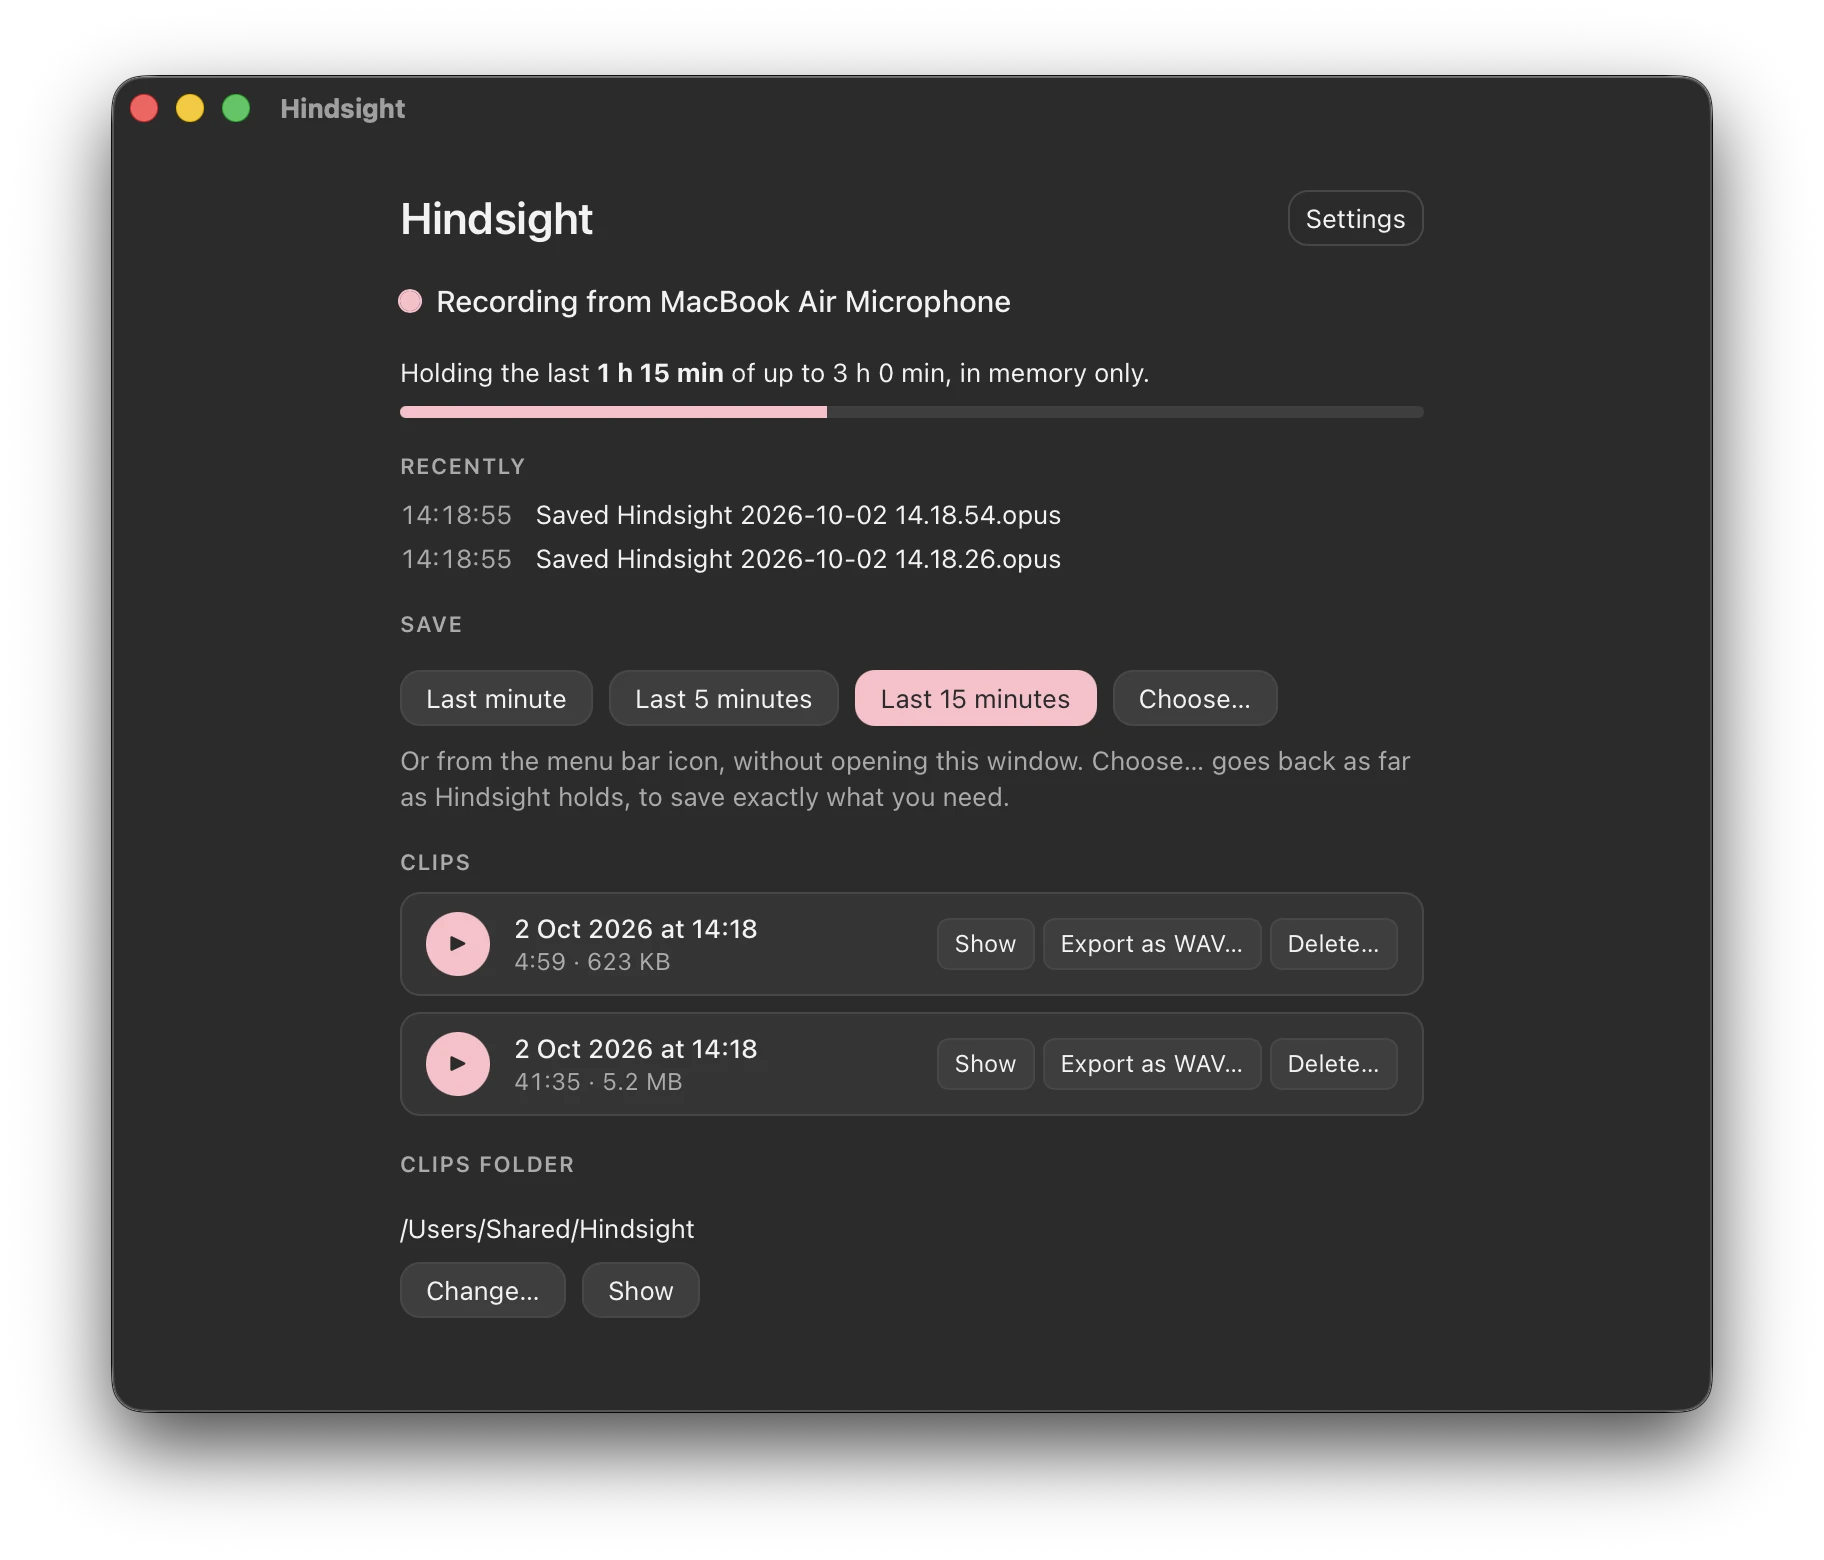
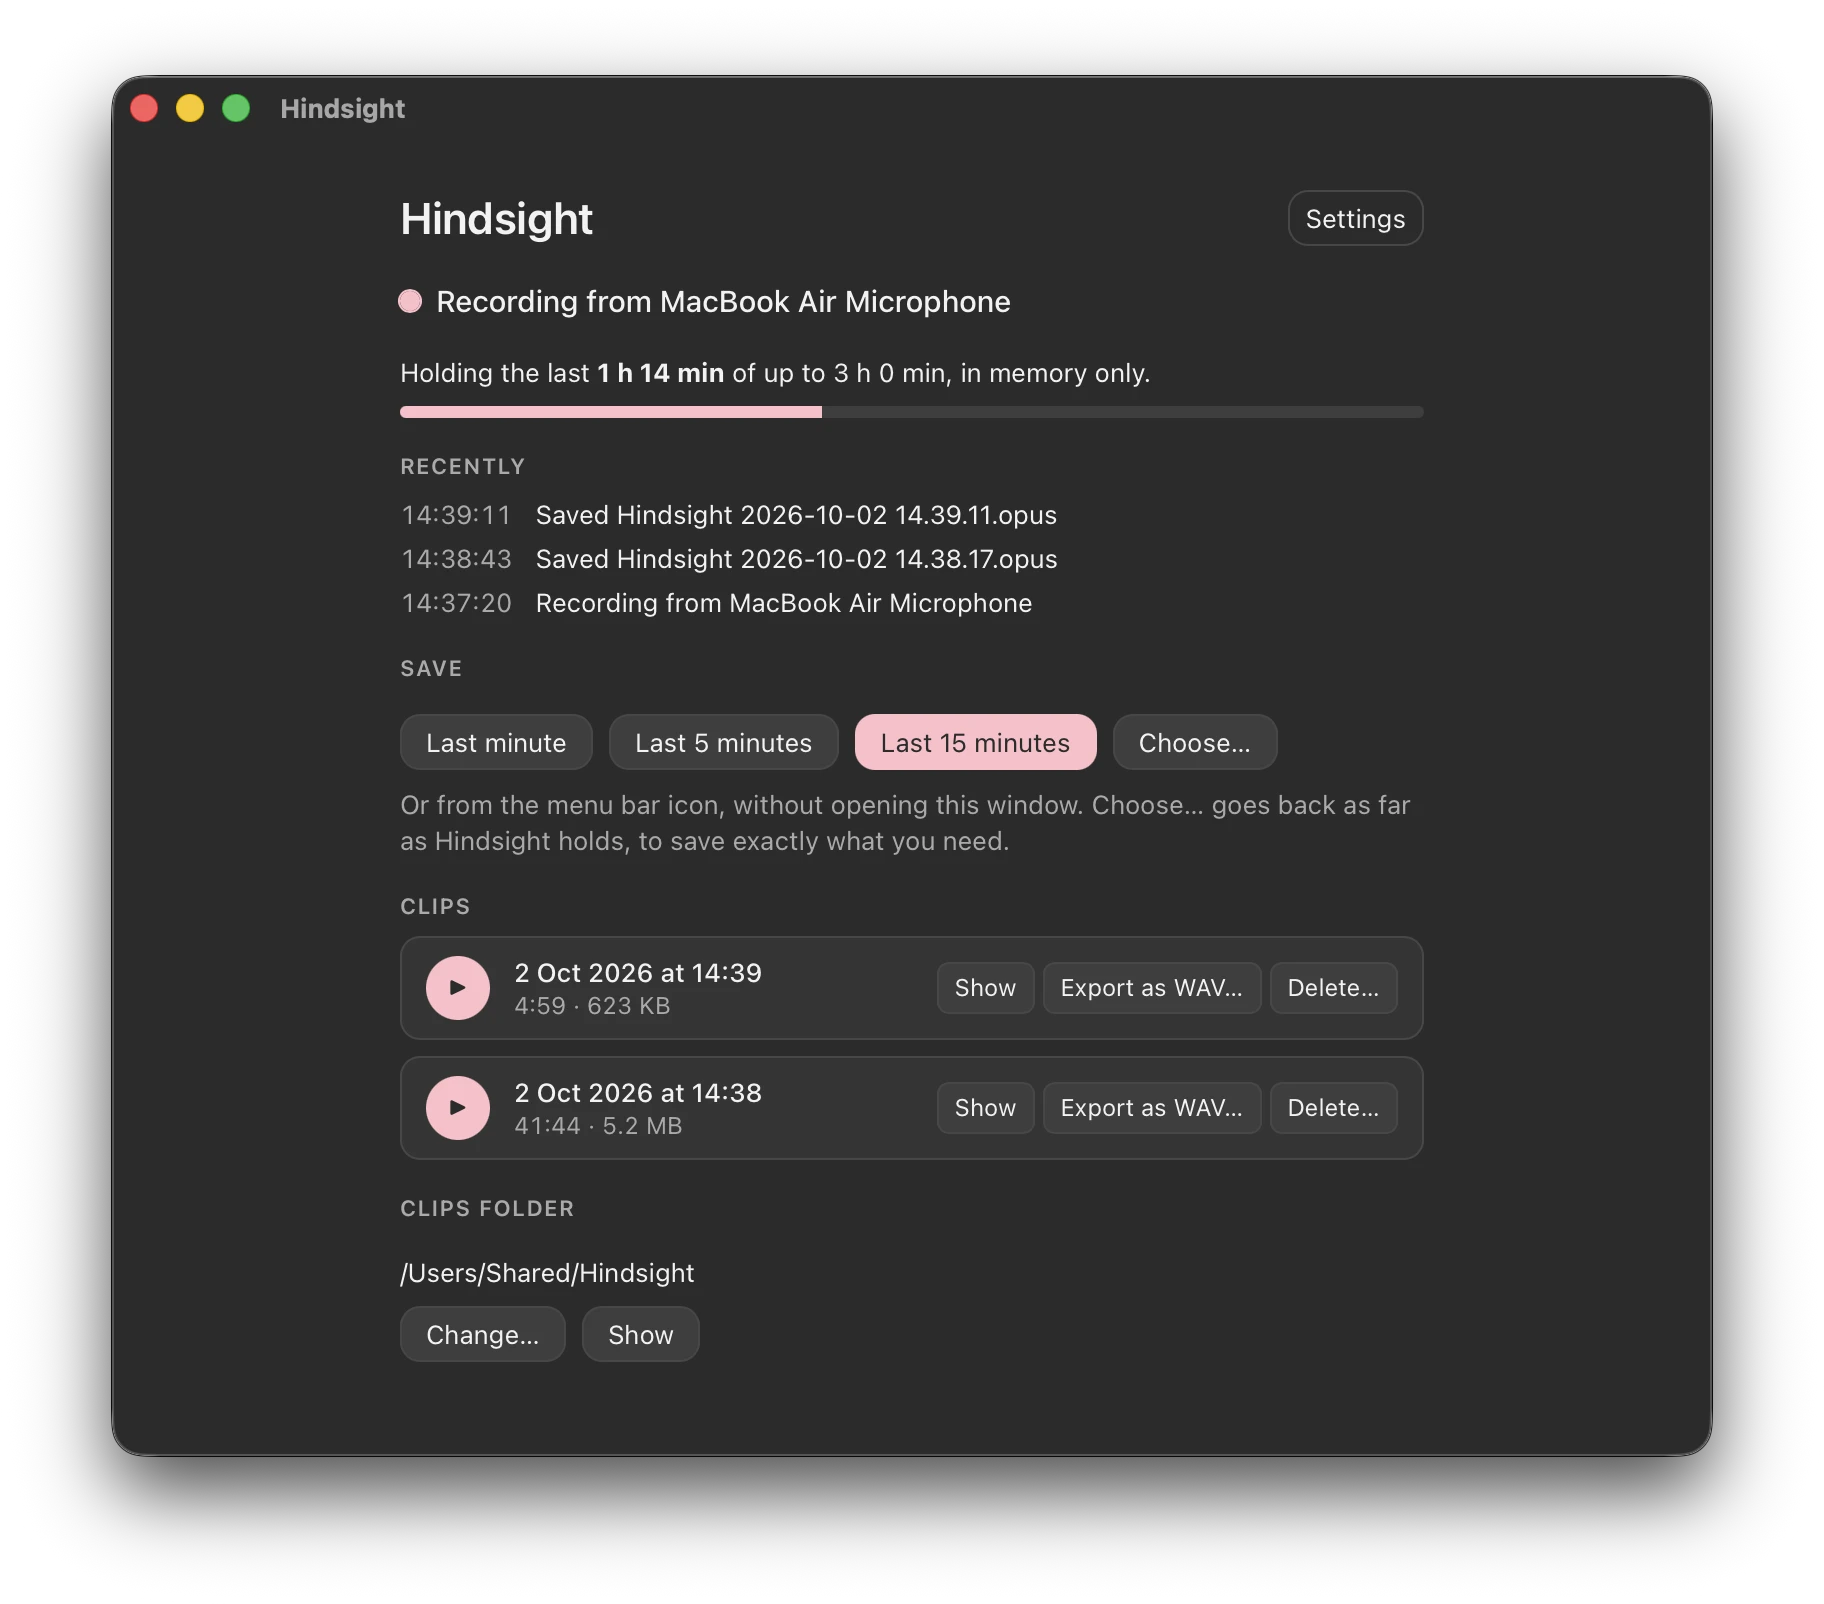
Retake the Hindsight hero with the buffer bar fixed
In light Rhodonite the buffer bar is now deep rose (itriumid/hindsight#19), so the light screenshot showed the old pastel bar. Both versions are retaken together, at the same moment.

(cherry picked from commit 8a84ceb753dd107daab1674b2c8e1d997715db28)

diff --git a/src/lib/content.ts b/src/lib/content.ts
@@ -232,7 +232,7 @@ export const HINDSIGHT = {
 	introduction:
 		"Someone walks up and says something you'll want to check later, but it's over before you'd think to record. Hindsight was already listening: it keeps the last few minutes in memory and forgets anything older. When it matters, you save it.",
 	screenshot:
-		"Hindsight's main window: recording from the microphone, holding the last hour and 15 minutes, with two saved clips",
+		"Hindsight's main window: recording from the microphone, holding the last hour and 14 minutes, with two saved clips",
 	// Shown beside a screenshot each; `image` names the pair in src/lib/screenshots.
 	highlights: [
 		{

diff --git a/src/routes/hindsight/+page.svelte b/src/routes/hindsight/+page.svelte
@@ -61,7 +61,7 @@
 		light={heroLight}
 		alt={HINDSIGHT.screenshot}
 		width={1824}
-		height={1560}
+		height={1604}
 		lazy={false}
 	/>
 </div>
